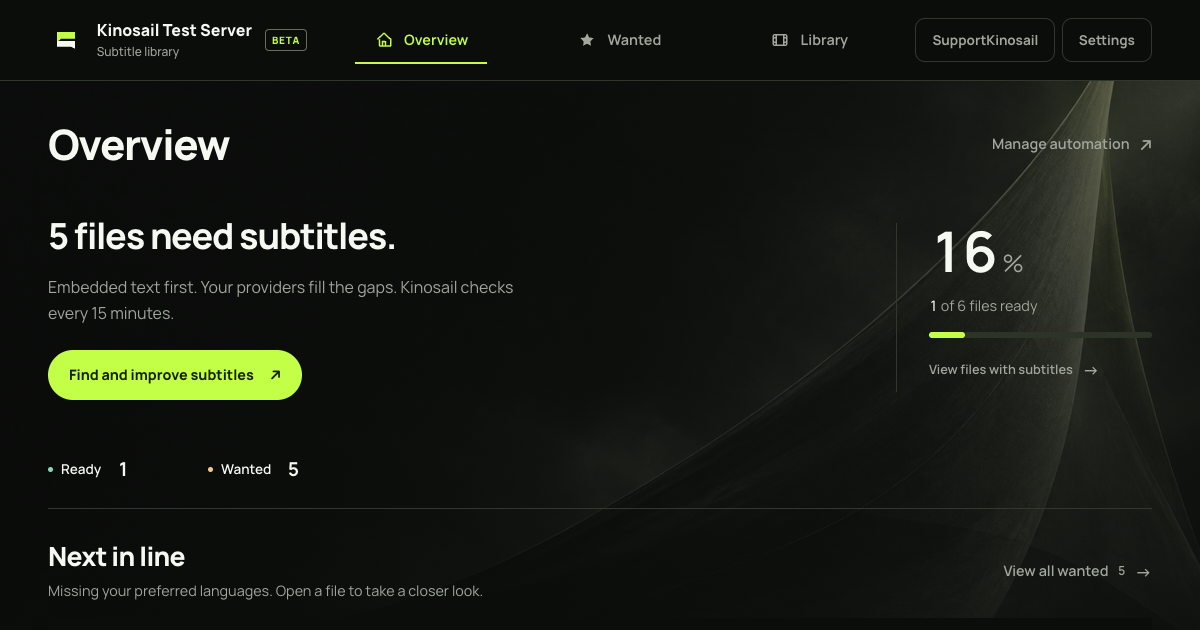
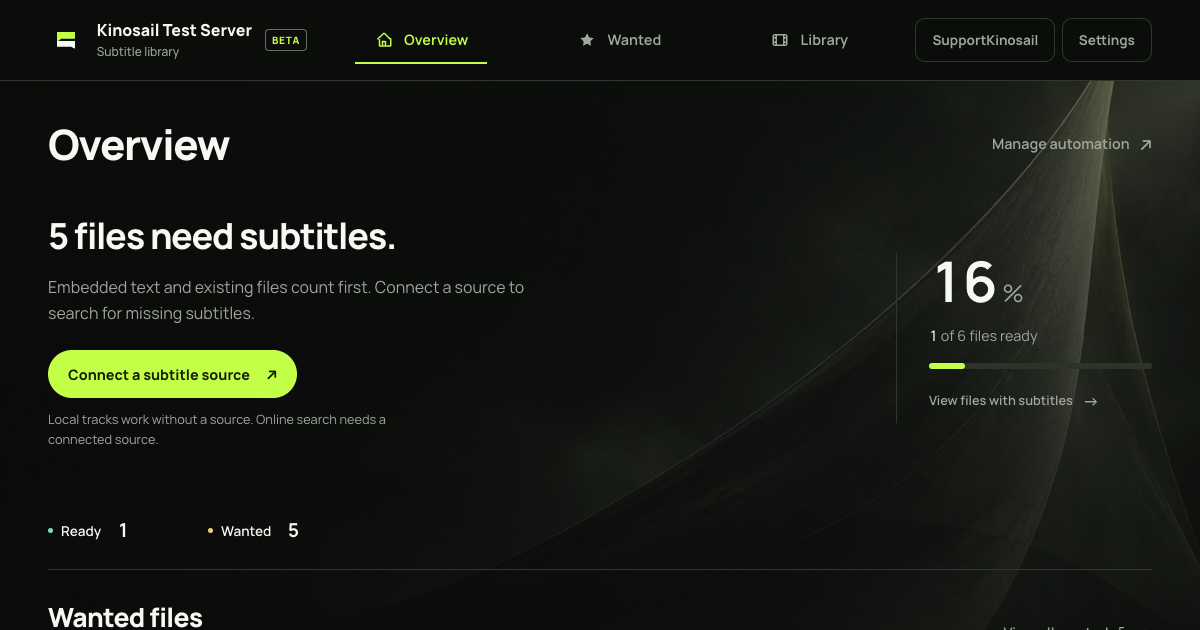
Refresh Subtitles screenshots after latest dashboard merge

diff --git a/engineering/documentation/subtitles-screenshot-provenance.md b/engineering/documentation/subtitles-screenshot-provenance.md
@@ -1,12 +1,12 @@
 # Subtitles documentation screenshots
 
-The four PNGs in `apps/subtitles/docs/assets/images/subtitles-*.png` were captured on 2026-09-27 from the actual Subtitles test instance at source revision `8207b32109fa979ef625da4a5c9b94e91a49ac4e`. It ran in a local Podman container with synthetic movie and episode files made by `apps/subtitles/scripts/generate-test-media.sh`. The Owner and Supporter badge were test fixtures. No personal media, purchase, or production account was used.
+The four PNGs in `apps/subtitles/docs/assets/images/subtitles-*.png` were captured on 2026-09-27 from the actual Subtitles test instance at source revision `d5b98a585b8576e6f2b00cad5e7d070d43674e8a`. It ran in a local Podman container with synthetic movie and episode files made by `apps/subtitles/scripts/generate-test-media.sh`. The Owner and Supporter badge were test fixtures. No personal media, purchase, or production account was used.
 
-The repeatable run used `apps/subtitles/scripts/test-instance.sh up` and `verify`, `go test ./internal/server -run TestWriteUIStateFixtures`, and the targeted Playwright dashboard and Supporter tests in `apps/subtitles/e2e/`. The run passed. Its command, environment, data, result, and original full-page and viewport screenshots are recorded in `/tmp/kinosail-subtitles-shipping.wnKpzr/manifest.txt` on the capture host. The committed PNGs are copies of the viewport artifacts without editing.
+The repeatable run used `apps/subtitles/scripts/test-instance.sh up` and `verify`, `go test ./internal/server -run TestWriteUIStateFixtures`, and the targeted Playwright dashboard and Supporter tests in `apps/subtitles/e2e/`. The run passed. Its command, environment, data, result, and original full-page and viewport screenshots are recorded in `/tmp/kinosail-subtitles-shipping.2yxgoP/manifest.txt` on the capture host. The committed PNGs are copies of the viewport artifacts without editing.
 
 | Screenshot | SHA-256 |
 | --- | --- |
[7 lines of base64/hex data omitted]
